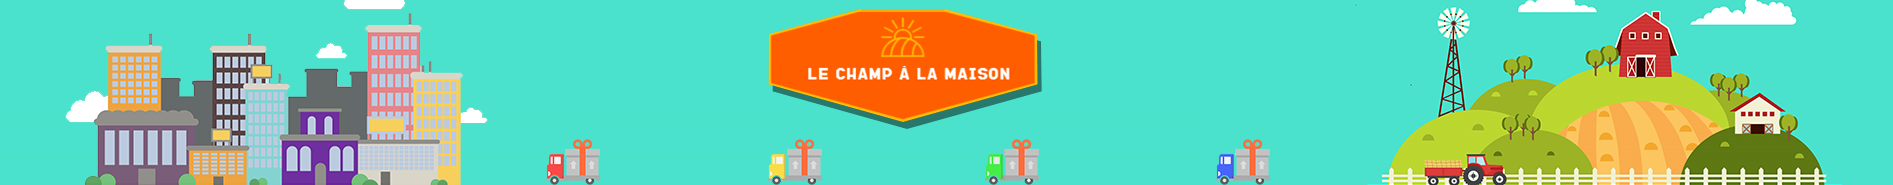
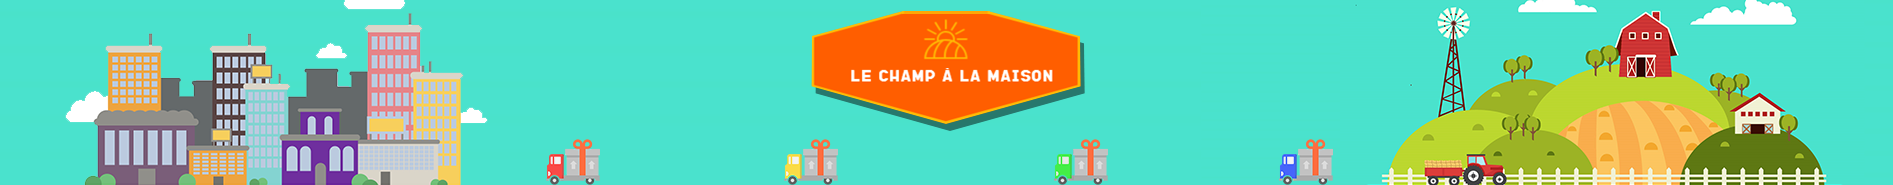
page accueil + fix

diff --git a/ressources/css/style.css b/ressources/css/style.css
@@ -70,6 +70,16 @@ Text Domain:  Freshia
 	font-family: 'Rubik', sans-serif;
 	float:left;
 }
+.leafList{
+	list-style-image: url(/img/leaf.svg); 
+	width:65%;
+	font-size:18px;
+	text-align: left;
+}
+.leafList >li{
+	height: 50px;
+	padding-left: 20px;
+}
 .btnValidate:hover {
 	background: none repeat scroll 0 0 #29a329;
 }
@@ -9158,7 +9168,7 @@ a.shop-now-btn {
 	padding:0px;
 }
 
-header {background:#000 url(../images/footer-bg.jpg) no-repeat center center;height: 187px;}
+header {background:#000 url(../images/footer-bg.jpg) no-repeat center center;height: 217px;}
 
 .header-container {
     transition: all 0.5s;
